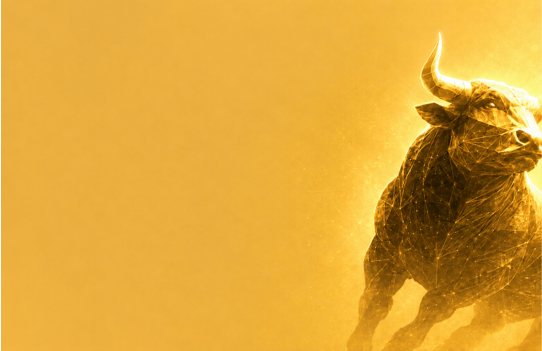
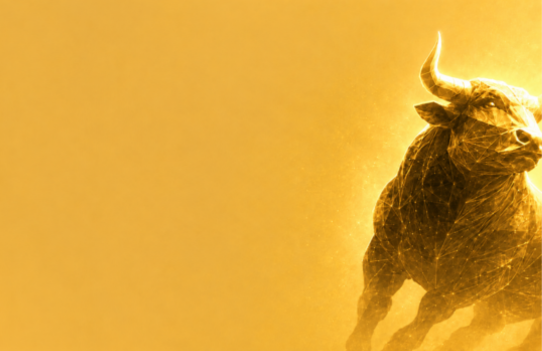
feat: add MT5 account creation dialog and update dashboard for error handling

diff --git a/src/app/(dashboard)/(shared)/dashboard/_components/dashboard-page-content.tsx b/src/app/(dashboard)/(shared)/dashboard/_components/dashboard-page-content.tsx
@@ -70,6 +70,7 @@ import {
 } from "lucide-react"
 import { useAuth } from "@/contexts/auth-context"
 import { ProfileCompletionDialog } from "@/components/profile-completion-dialog"
+import { Mt5AccountCreationDialog } from "@/components/mt5-account-creation-dialog"
 import {
   authApi,
   ibRequestsApi,
@@ -153,6 +154,7 @@ export function DashboardPageContent() {
   const isBullTheme = isGoldenBullTheme(themePairId, themeMode);
   const queryClient = useQueryClient();
   const [showProfileDialog, setShowProfileDialog] = useState(false);
+  const [showMt5Dialog, setShowMt5Dialog] = useState(false);
   const [incompleteSections, setIncompleteSections] = useState<Array<{
     key: "personal_information" | "legal_information" | "documents_verification";
     title: string;
@@ -233,6 +235,7 @@ export function DashboardPageContent() {
   const [isDepositsStatisticsLoading, setIsDepositsStatisticsLoading] = useState(false);
   const [isWithdrawalsStatisticsLoading, setIsWithdrawalsStatisticsLoading] = useState(false);
   const [dashboardError, setDashboardError] = useState<unknown | null>(null);
+  const [tradingSummaryError, setTradingSummaryError] = useState<unknown | null>(null);
   const [depositStatisticsPeriod, setDepositStatisticsPeriod] = useState<7 | 30>(30);
   const [withdrawalStatisticsPeriod, setWithdrawalStatisticsPeriod] = useState<7 | 30>(30);
   // MT4 dashboard tabs are intentionally hidden for now. Restore the original union when MT4 UI returns.
@@ -265,7 +268,11 @@ export function DashboardPageContent() {
     try {
       const [userDashboardResult, tradingResponse, ibWalletResponse, depositsStatsResponse, withdrawalsStatsResponse] = await Promise.all([
         authApi.getUserDashboard(token),
-        authApi.getTradingAccountsSummary(token),
+        authApi.getTradingAccountsSummary(token).catch((err) => {
+          console.error("Trading accounts summary failed:", err);
+          setTradingSummaryError(err);
+          return { success: false, data: null };
+        }),
         ibRequestsApi.getIbWallet(token).catch((err) => {
           console.log("IB Wallet not available (user may not be IB):", err);
           return null;
@@ -346,9 +353,14 @@ export function DashboardPageContent() {
     const fetchDashboardData = async () => {
       setIsDashboardLoading(true);
       setDashboardError(null);
+      setTradingSummaryError(null);
       try {
         const [tradingResponse, ibWalletResponse] = await Promise.all([
-          authApi.getTradingAccountsSummary(token),
+          authApi.getTradingAccountsSummary(token).catch((err) => {
+            console.error("Trading accounts summary failed:", err);
+            if (isMounted) setTradingSummaryError(err);
+            return { success: false, data: null };
+          }),
           ibRequestsApi.getIbWallet(token).catch((err) => {
             console.log("IB Wallet not available (user may not be IB):", err);
             return null;
@@ -1831,7 +1843,23 @@ export function DashboardPageContent() {
                 ) : null}
           {/* Trading Accounts Grid */}
           <div className="space-y-6">
-            {hasAnyMt5Accounts ? (
+            {tradingSummaryError ? (
+              <ApiErrorState
+                error={tradingSummaryError}
+                audience="client"
+                resource="trading accounts"
+                action="load"
+                variant="panel"
+                onRetry={() => {
+                  void authApi.getTradingAccountsSummary(token!).then((res) => {
+                    if (res.success && res.data) {
+                      setTradingSummary(res.data);
+                      setTradingSummaryError(null);
+                    }
+                  });
+                }}
+              />
+            ) : hasAnyMt5Accounts ? (
               <>
                 {/* Platform Tabs */}
                 <Card className="border-0 bg-card/70 shadow-xl backdrop-blur-sm">
@@ -2063,7 +2091,12 @@ export function DashboardPageContent() {
       {isUser && (
         <ProfileCompletionDialog
           open={showProfileDialog}
-          onOpenChange={setShowProfileDialog}
+          onOpenChange={(open) => {
+            setShowProfileDialog(open);
+            if (open === false) {
+              setShowMt5Dialog(true);
+            }
+          }}
           incompleteSections={incompleteSections.map(section => ({
             ...section,
             icon: section.key === 'personal_information' ? (
@@ -2074,6 +2107,14 @@ export function DashboardPageContent() {
               <FileText className="h-5 w-5 text-orange-600" />
             ),
           }))}
+        />
+      )}
+
+      {/* MT5 Account Creation Dialog */}
+      {isUser && (
+        <Mt5AccountCreationDialog
+          open={showMt5Dialog}
+          onOpenChange={setShowMt5Dialog}
         />
       )}
     </ProtectedRoute>

diff --git a/src/components/mt5-account-creation-dialog.tsx b/src/components/mt5-account-creation-dialog.tsx
@@ -1,0 +1,83 @@
+"use client";
+
+import {
+  Dialog,
+  DialogContent,
+  DialogDescription,
+  DialogFooter,
+  DialogHeader,
+  DialogTitle,
+} from "@/components/ui/dialog";
+import { Button } from "@/components/ui/button";
+import { TrendingUp, ArrowRight } from "lucide-react";
+
+interface Mt5AccountCreationDialogProps {
+  open: boolean;
+  onOpenChange: (open: boolean) => void;
+  onCreateAccount?: () => void;
+  onSkip?: () => void;
+}
+
+export function Mt5AccountCreationDialog({
+  open,
+  onOpenChange,
+  onCreateAccount,
+  onSkip,
+}: Mt5AccountCreationDialogProps) {
+  const handleCreateAccount = () => {
+    onOpenChange(false);
+    onCreateAccount?.();
+  };
+
+  const handleSkip = () => {
+    onOpenChange(false);
+    onSkip?.();
+  };
+
+  return (
+    <Dialog open={open} onOpenChange={onOpenChange}>
+      <DialogContent className="sm:max-w-md">
+        <DialogHeader>
+          <DialogTitle className="flex items-center gap-2 text-xl">
+            <TrendingUp className="h-5 w-5 text-primary" />
+            Create MT5 Account
+          </DialogTitle>
+          <DialogDescription className="pt-2 text-base text-muted-foreground">
+            Set up your MT5 trading account to access global markets and start trading.
+          </DialogDescription>
+        </DialogHeader>
+
+        <div className="space-y-4 py-4">
+          <div className="flex items-start gap-4 rounded-xl border border-primary/25 bg-primary/5 p-4 backdrop-blur-sm">
+            <div className="flex-shrink-0 rounded-lg border border-primary/20 bg-primary/10 p-2 text-primary">
+              <TrendingUp className="h-5 w-5" />
+            </div>
+            <div className="flex-1">
+              <h4 className="mb-1 text-sm font-semibold text-foreground">
+                Ready to Trade?
+              </h4>
+              <p className="mb-3 text-sm text-muted-foreground">
+                Create your MT5 account to access forex, commodities, indices, and more.
+              </p>
+              <Button size="sm" onClick={handleCreateAccount}>
+                Create Account
+                <ArrowRight className="ml-2 h-4 w-4" />
+              </Button>
+            </div>
+          </div>
+        </div>
+
+        <DialogFooter className="flex items-center justify-between">
+          <Button
+            variant="outline"
+            onClick={handleSkip}
+            className="border-border/80 bg-background/70"
+          >
+            I&apos;ll do this later
+          </Button>
+          <Button onClick={handleCreateAccount}>Create MT5 Account</Button>
+        </DialogFooter>
+      </DialogContent>
+    </Dialog>
+  );
+}

diff --git a/src/app/globals.css b/src/app/globals.css
@@ -469,10 +469,16 @@
     background-size: cover;
   }
 
-  .bull-theme-wallet-overlay {
+.bull-theme-wallet-overlay {
     background-image: url('/wallet-balance-bull-bright.png');
     background-position: bottom right;
-    background-size: cover;
+    background-size: auto;
+    background-color: #eeb03f;
+  }
+
+  .dark .bull-theme-wallet-overlay {
+    background-image: url('/wallet-balance-bull.png');
+    background-color: #1f1402;
   }
 
   .dark .bull-theme-welcome-overlay {
